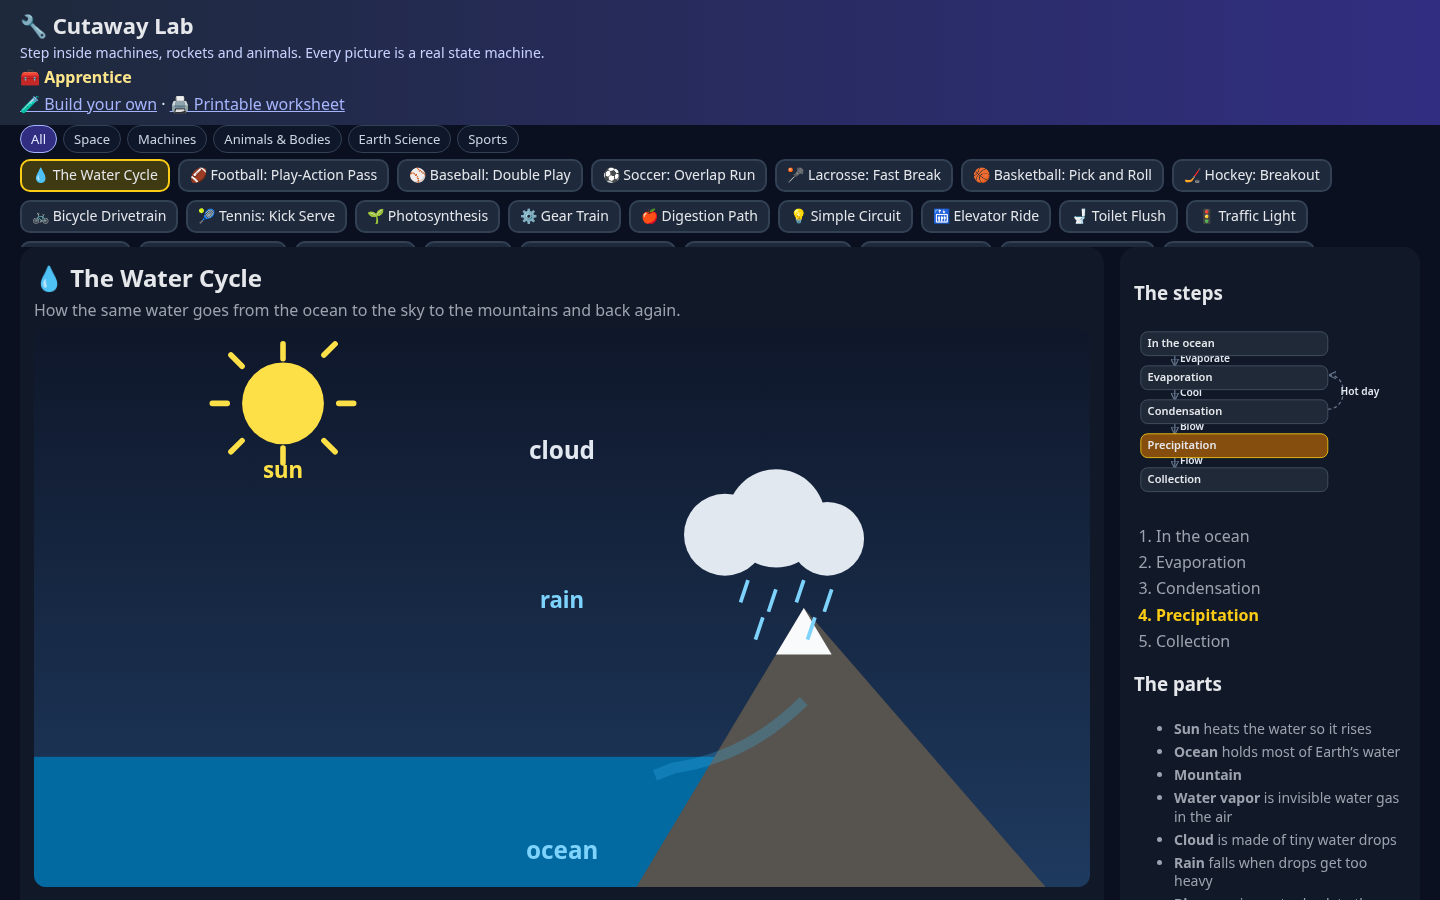
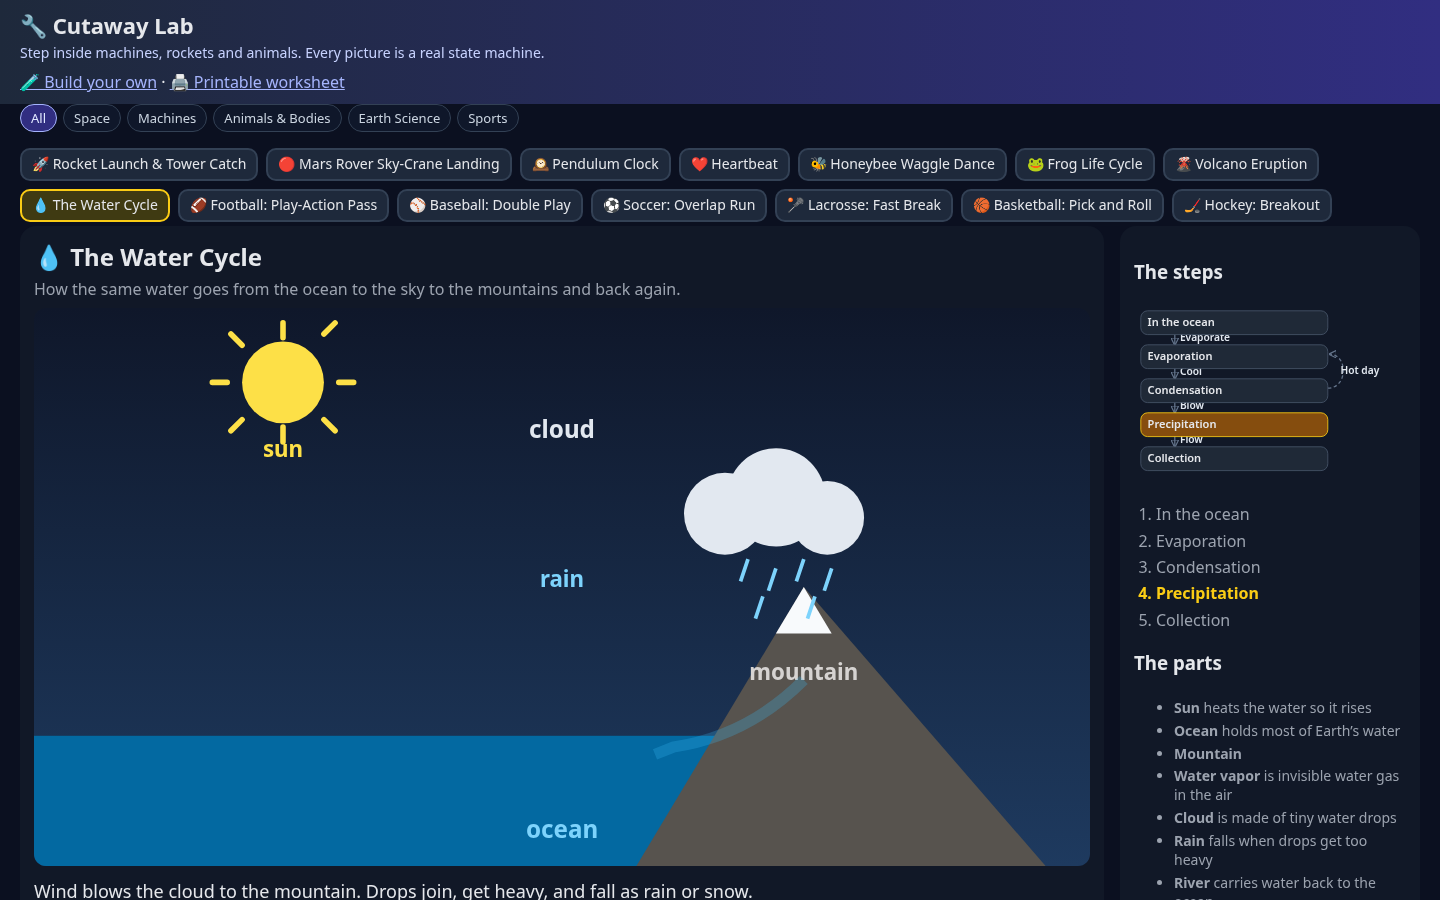
v1.0: water mountain caption on the peak

diff --git a/machines/water.js b/machines/water.js
@@ -8,6 +8,8 @@ export default {
     { id: 'lblSea', label: 'Ocean label',
       svg: '<text x="200" y="285" text-anchor="middle" fill="#7dd3fc" font-size="13" font-weight="700">ocean</text>' },
     { id: 'hill', label: 'Mountain', svg: '<path d="M240 300 L330 150 L460 300Z" fill="#57534e"/><path d="M315 175 L330 150 L345 175Z" fill="#f8fafc"/>' },
+    { id: 'lblHill', label: 'Mountain label',
+      svg: '<text x="330" y="200" text-anchor="middle" fill="#d6d3d1" font-size="12" font-weight="700">mountain</text>' },
     { id: 'vapor', label: 'Water vapor', job: 'is invisible water gas in the air', svg: '<g stroke="#bae6fd" stroke-width="2" fill="none" stroke-dasharray="3 4"><path d="M100 225 q6 -20 0 -40 q-6 -20 0 -40"/><path d="M140 225 q6 -20 0 -40 q-6 -20 0 -40"/><path d="M180 225 q6 -20 0 -40 q-6 -20 0 -40"/></g>', pose: { opacity: 0 } },
     { id: 'cloud', label: 'Cloud', job: 'is made of tiny water drops', svg: '<g fill="#e2e8f0"><circle cx="150" cy="70" r="20"/><circle cx="175" cy="62" r="24"/><circle cx="200" cy="72" r="18"/></g>', pose: { opacity: 0, scale: 0.5 }, explode: [0, -20] },
     { id: 'lblSun', label: 'Sun label',
